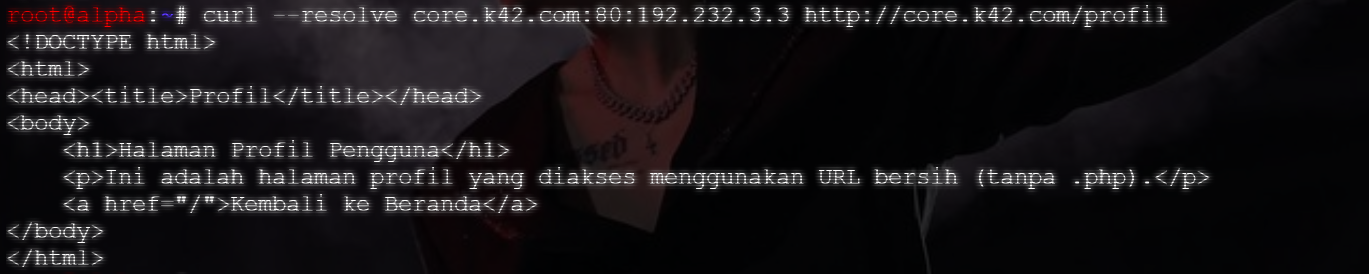
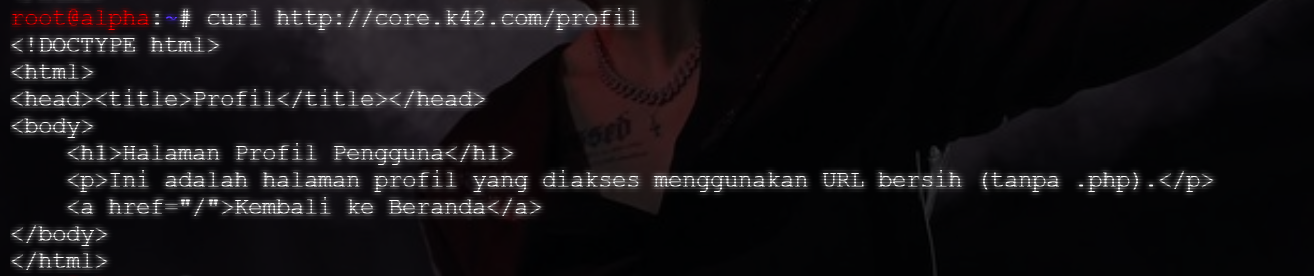
perbaikan sisanya

Changed region(s): [[0.0, 0.0, 0.9361, 0.8467], [0.0, 0.8175, 0.0936, 0.9927], [0.6865, 0.5255, 0.7177, 0.5547]]

diff --git a/steps/soal10.md b/steps/soal10.md
@@ -11,10 +11,12 @@ Buat file script `soal10_oblada.sh` `soal10_molly.sh` dan berikan izin eksekusi,
 
 Di dalam script untuk `oblada` dan `molly` terdapat pembuatan file `index.php` dan `profil.php`.
 
-Jalankan uji coba dengan perintah:
+Jalankan dengan perintah `curl <domain>`,  namun apabila node alpha belum terhubung dengan node `oblada`, maka bisa menggunakan `curl --resolve <domain>:80:<IP WEB SERVER> <domain>`.
+
 
 ```bash
-curl --resolve <domain>:80:<IP WEB SERVER> <domain>
+curl http://core.k42.com/
+curl http://core.k42.com/profil
 ```
 
 ![alt text](../assets/10_alpha-curl-beranda.png)
